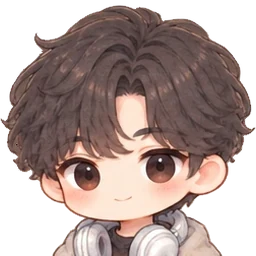
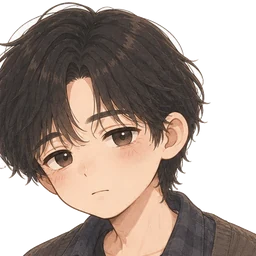
지호 얼굴을 한 장짜리 그림으로 바꿨다
시트 B 에도 지호 얼굴(헤드폰 쓴 쪽)이 있지만 안 쓴다. `SHEET_B` 의 그
자리는 `None` 으로 비워뒀다 — 목록에서 아예 빼지 않는 건 그게 시트를
왼쪽 위부터 세는 순서라서, 한 칸을 빼면 뒤 사람이 전부 한 칸씩 밀리기
때문이다. 실제로 은채 라벨이 아랫줄로 밀려 있어서 한 번 헷갈렸던 자리다.

Claude-Session: https://claude.ai/code/session_01HXH7Rk1R1oNuwxZDRCRrmH

diff --git a/little-life/vite.config.ts b/little-life/vite.config.ts
@@ -50,7 +50,7 @@ function stampServiceWorker() {
           .filter(
             (url) => !url.startsWith('/assets/characters/') || url.endsWith('/basic_day.webp'),
           )
-          // 사람 얼굴 스물넷(485KB)은 미리 받는다. 도감 그림과 달리 지도를
+          // 사람 얼굴 스물넷(480KB)은 미리 받는다. 도감 그림과 달리 지도를
           // 여는 순간 열두 장이 한꺼번에 보이는 자리라, 그때 하나씩 받으면
           // 얼굴이 뒤늦게 하나씩 떠오른다. 여기는 걸러내지 않는다.
           // 클라우드 백업 라이브러리는 백업을 켠 사람만 받는다.

diff --git a/little-life/scripts/extract-npc-faces.py b/little-life/scripts/extract-npc-faces.py
@@ -41,9 +41,13 @@ MIN_AREA_RATIO = 0.004
 # 시트에 손글씨로 이름이 적혀 있어서 눈으로 확인하고 적었다.
 # 왼쪽 위부터 오른쪽으로, 그다음 줄로 내려간다.
 SHEET_A = ["HARU", "RIO", "HAEIN", "LULU", "YUNA", "SIWOO"]
+#
+# 지호 자리가 None 인 건, 시트에 있는 얼굴 대신 한 장짜리 그림으로 바꿨기
+# 때문이다 (아래 SINGLES). 목록에서 빼지 않고 자리만 비운다 — 이 목록은
+# 시트를 왼쪽 위부터 세는 순서라 한 칸을 빼면 뒤가 전부 한 칸씩 밀린다.
 SHEET_B = [
     "MINA", "JUNE", "EUNCHAE", "MINJI", "JUN",
-    "HYUNWOO", "HARIN", "RAON", "JIHO", "SUA",
+    "HYUNWOO", "HARIN", "RAON", None, "SUA",
     "SUNJAE", "YEONJU", "JEONGWON",
 ]
 
@@ -58,6 +62,7 @@ SINGLES = {
     "npc-face-woosik.webp": "WOOSIK",
     "npc-face-sera.webp": "NOA",
     "npc-face-yuhyeon.webp": "YUHYEON",
+    "npc-face-jiho.webp": "JIHO",
 }
 
 # ── 얼굴로 자를 네모 ────────────────────────────────────────────────
@@ -73,6 +78,7 @@ FACE_BOX = {
     "WOOSIK": (0.78, 0.39, 0.00),
     "NOA": (0.68, 0.44, 0.02),
     "YUHYEON": (0.68, 0.48, -0.015),
+    "JIHO": (0.72, 0.48, -0.005),
 }
 FACE_BOX_DEFAULT = (1.00, 0.50, -0.02)
 
@@ -167,6 +173,8 @@ def main():
             print(f"{name} 이 없다. 건너뛴다.")
             continue
         for npc_id, box in zip(ids, boxes(sheet, len(ids))):
+            if npc_id is None:
+                continue
             save(face(cutout(sheet, box), npc_id), npc_id)
             done.append(npc_id)
 

diff --git a/little-life/docs/asset-request.md b/little-life/docs/asset-request.md
@@ -612,7 +612,7 @@
 
 | 항목 | 값 |
 | --- | --- |
-| 원본 | `assets/source-sheets/npc-faces-a.webp` (6명) · `npc-faces-b.webp` (13명) · `npc-face-*.webp` (한 명씩 5장) |
+| 원본 | `assets/source-sheets/npc-faces-a.webp` (6명) · `npc-faces-b.webp` (13명 중 12명) · `npc-face-*.webp` (한 명씩 6장) |
 | 잘라내기 | `npm run assets:npcs` → `public/assets/npcs/<NPC_ID>.webp` |
 | 크기 | 256 × 256 정사각형 · 얼굴이 가운데 · 배경 투명 · 한 장 20KB 안쪽 |
 | 화면 | NPC 시트 머리 64 · 가게 · 이야기 56 · 지도 얼굴칸 40 · 동네 시트 칩 26 · 퀘스트 카드 18 |
@@ -625,6 +625,11 @@
 
 이모지로 서 있는 사람은 이제 없다. 그래도 이모지로 떨어지는 길은
 그대로 둔다 — 사람이 늘면 그림보다 먼저 도시에 서는 때가 반드시 온다.
+
+**남지호는 나중에 한 장짜리 그림으로 갈아끼웠다.** 시트 B 에도 지호 얼굴이
+있지만 그건 안 쓴다 — `SHEET_B` 의 그 자리는 `None` 으로 비워뒀다.
+목록에서 아예 빼지 않는 건 그게 시트를 왼쪽 위부터 세는 순서라서,
+한 칸을 빼면 뒤 사람이 전부 한 칸씩 밀리기 때문이다.
 
 ### 이름이 안 적혀 있던 두 장 — 둘 다 확인됐다 ✅
 

diff --git a/little-life/assets/source-sheets/README.md b/little-life/assets/source-sheets/README.md
@@ -28,12 +28,13 @@
 | `extra.png` | 빈백·미니 식탁·별자리 러그·수납장·서랍장·별빛 화분 (1차에 빠졌던 여섯) |
 | `trophy.png` | 트로피 다섯 (나무별·기록책·별 병·달 조각·하트 병) |
 | `npc-faces-a.webp` | 도시 사람 여섯 (흰 바탕) — 태오·도윤·해인·미래·유나·시우 |
-| `npc-faces-b.webp` | 도시 사람 열셋 (투명) — 하루·이안·은채·민지·준 / 현우·하린·라온·지호·수아 / 선재·연주·정원 |
+| `npc-faces-b.webp` | 도시 사람 열셋 (투명) — 하루·이안·은채·민지·준 / 현우·하린·라온·(지호)·수아 / 선재·연주·정원. 지호는 이 시트 대신 아래 한 장짜리를 쓴다 |
 | `npc-face-sora.webp` | 임소라 한 명 |
 | `npc-face-jaehui.webp` | 김재희 한 명 |
 | `npc-face-woosik.webp` | 장우식 한 명 (그림에 이름은 없지만 사용자가 확인해줬다) |
 | `npc-face-sera.webp` | 차세라 한 명 (같은 이유) |
 | `npc-face-yuhyeon.webp` | 강유현 한 명 (흰 바탕) |
+| `npc-face-jiho.webp` | 남지호 한 명 (흰 바탕). 시트 B 의 지호 얼굴을 이걸로 갈아끼웠다 |
 
 ## 다시 뽑는 법
 
